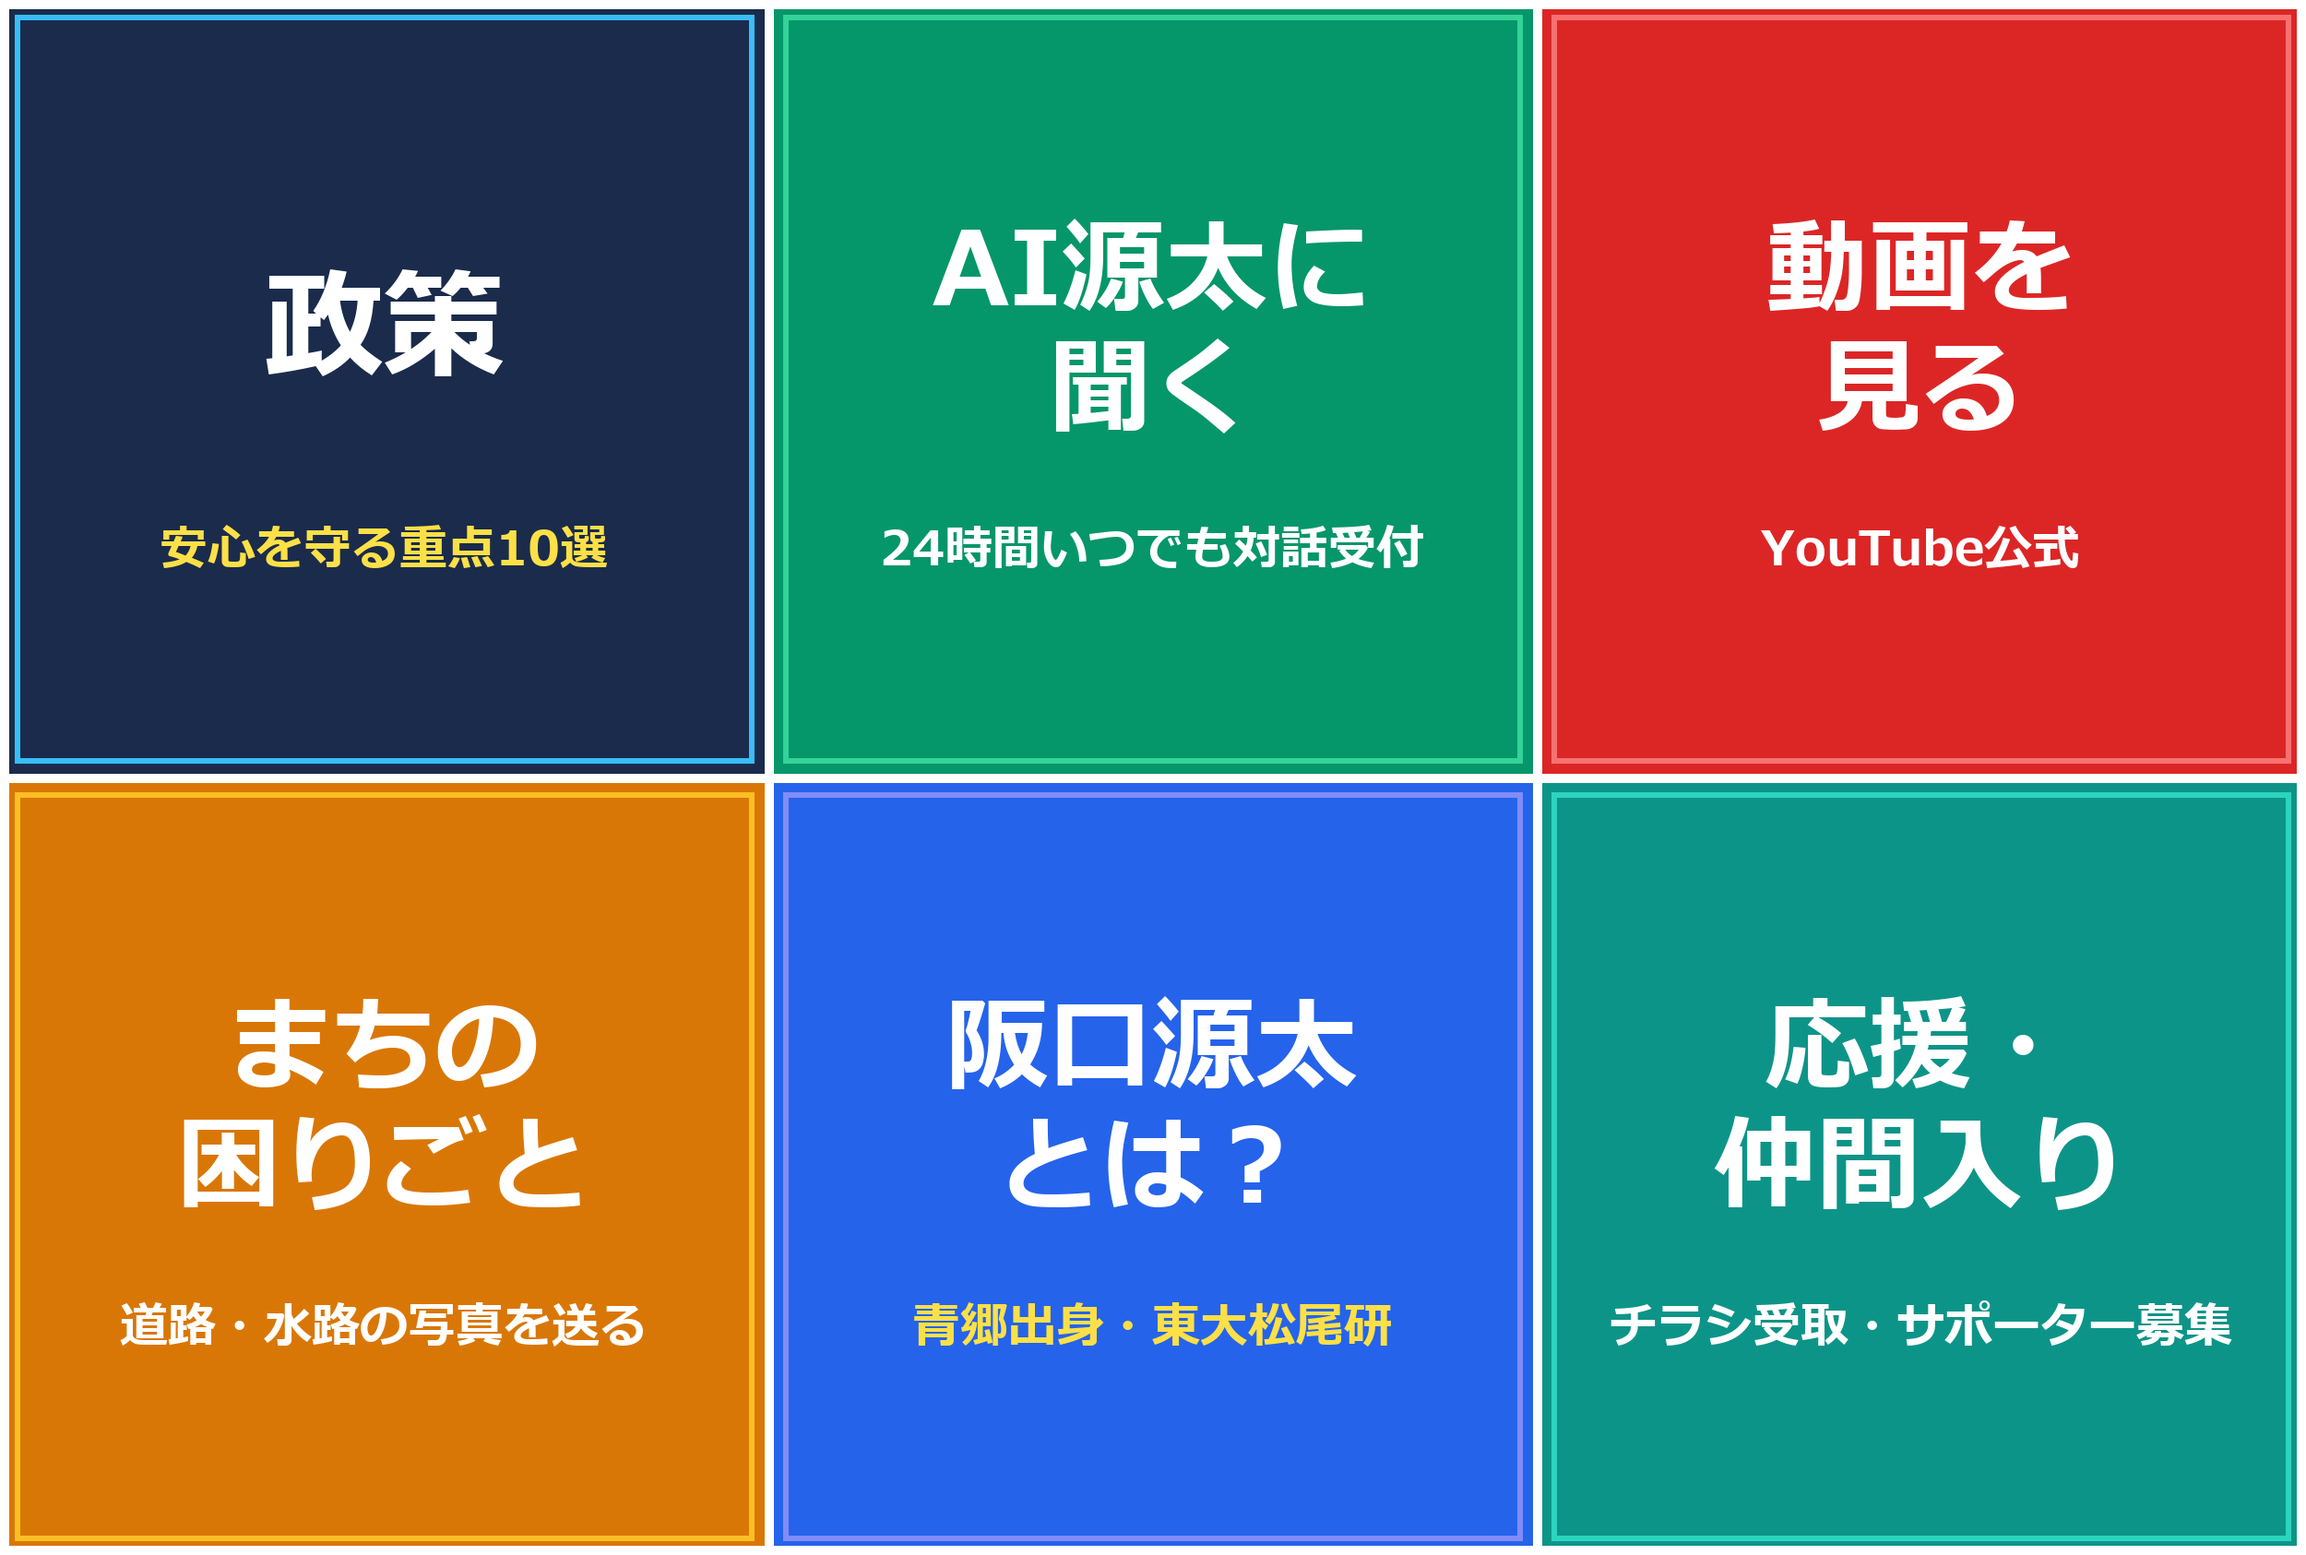
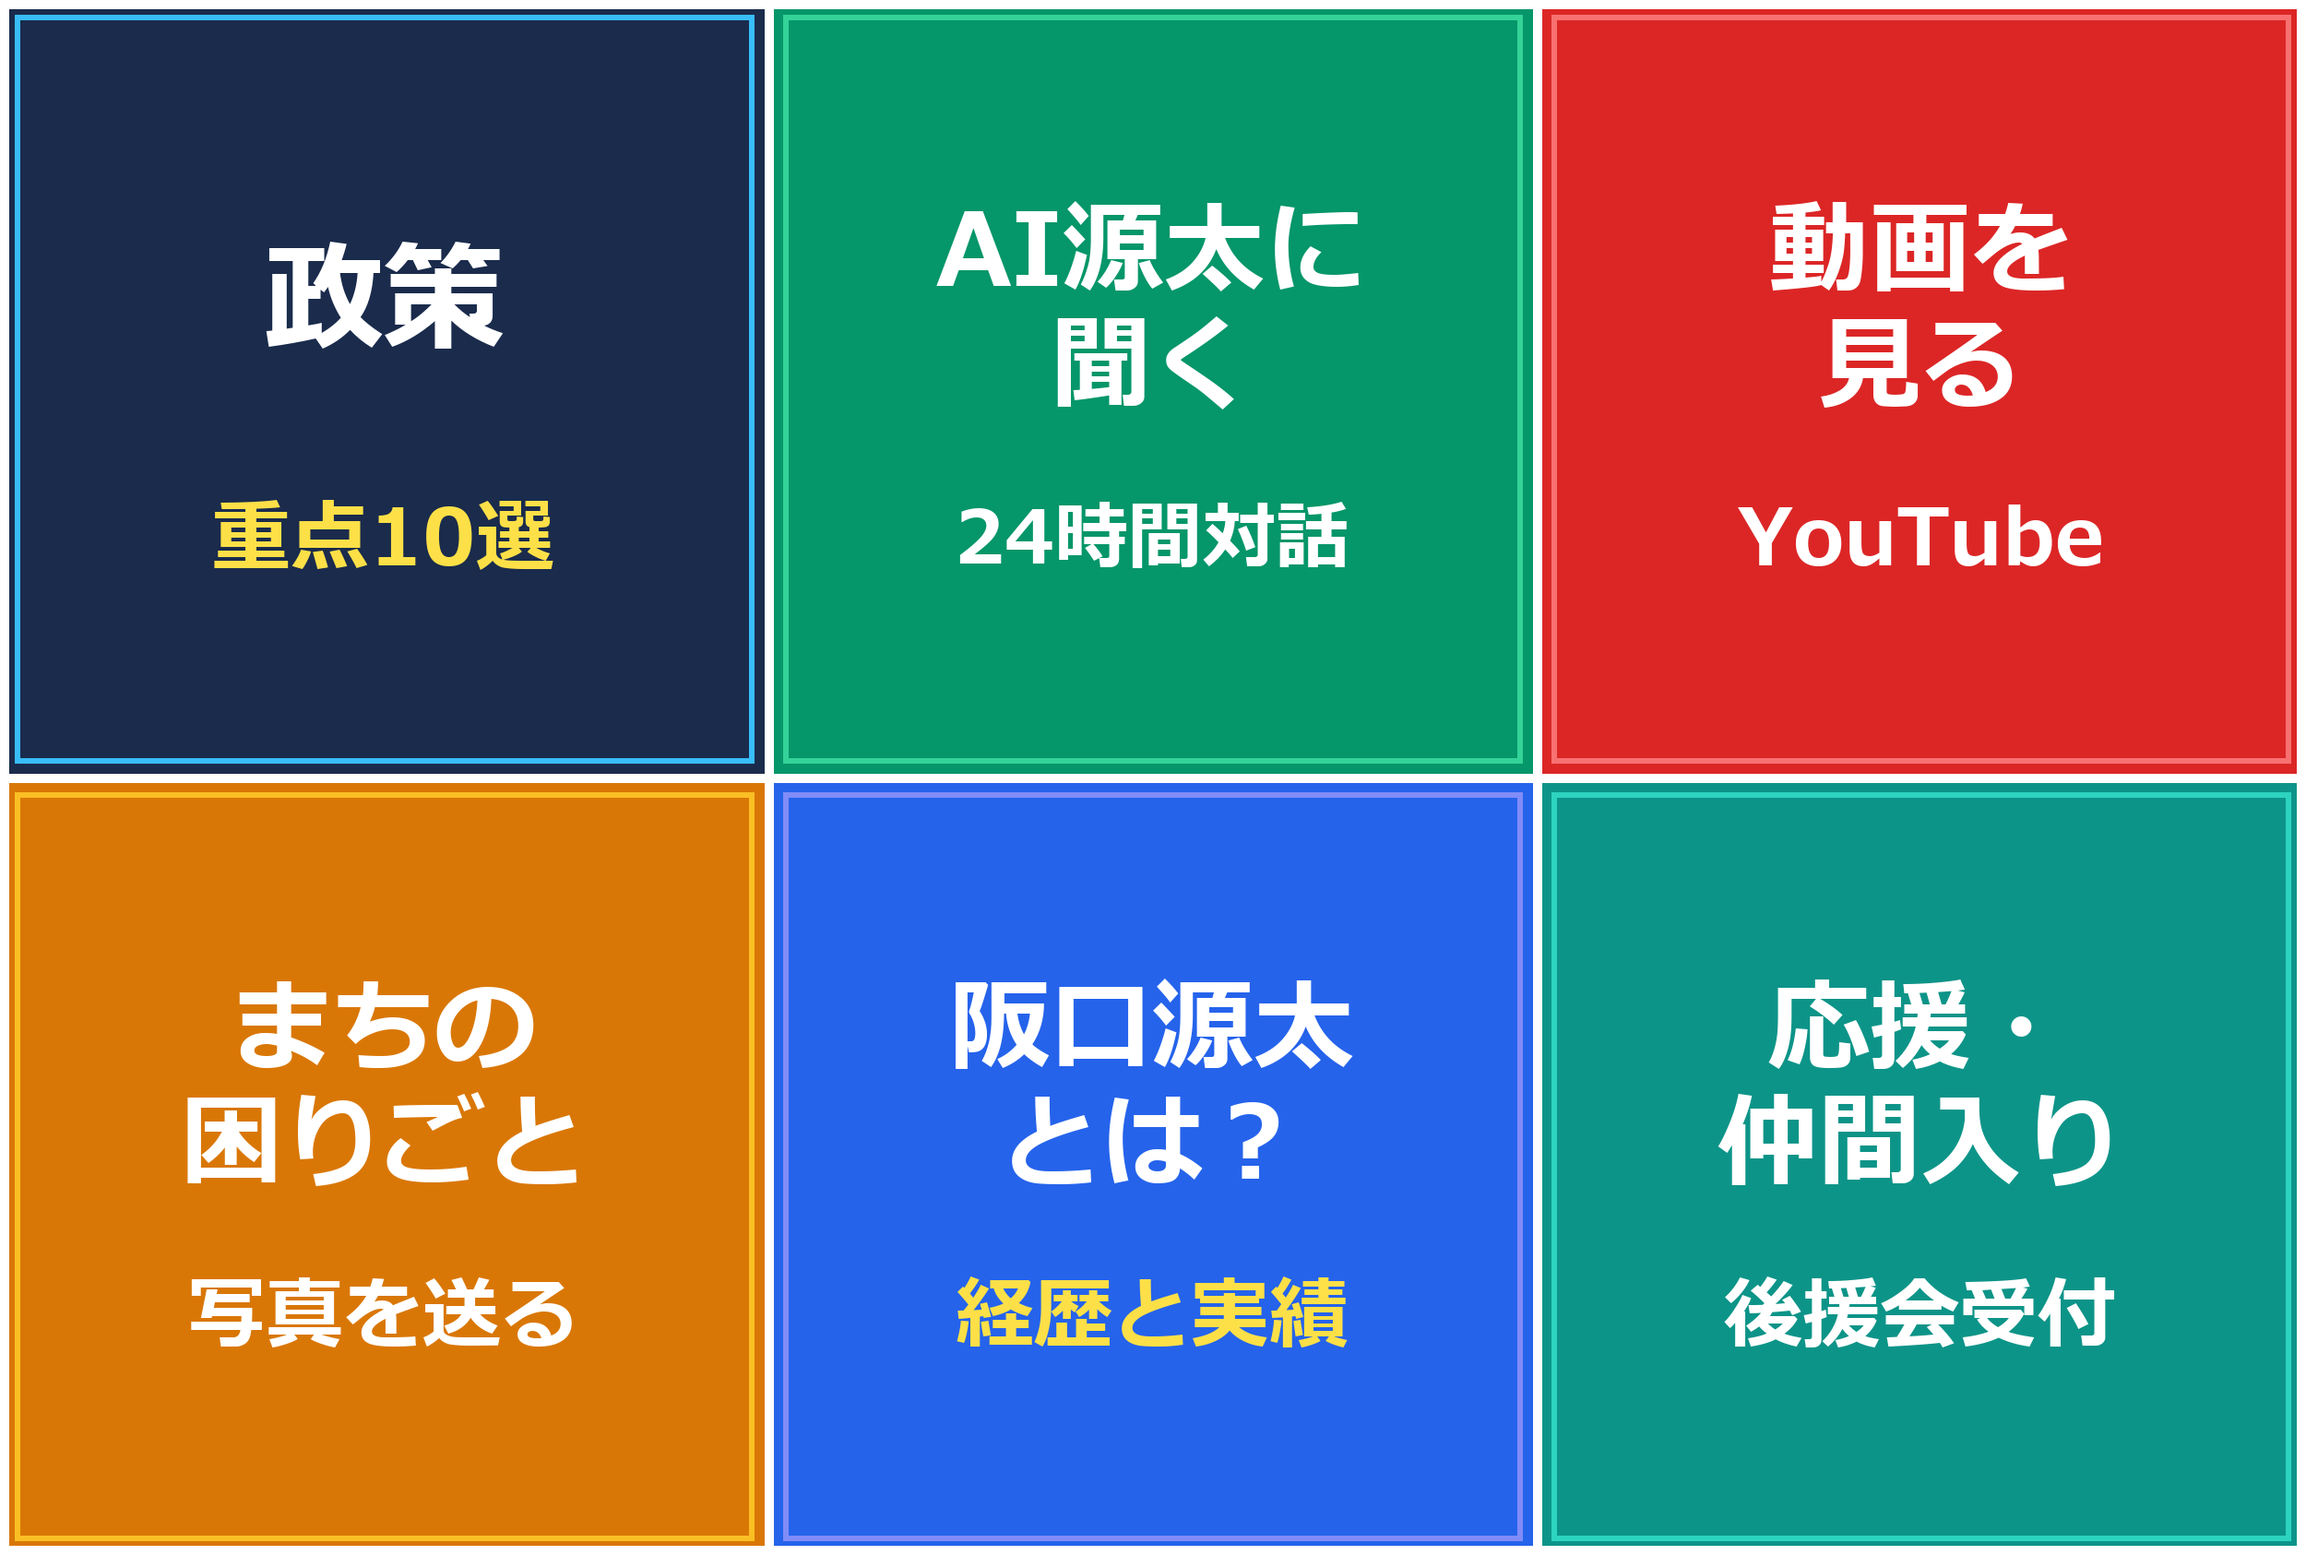
feat(richmenu): enlarge subtext font to 80-85pt for senior readability

diff --git a/app/bot/generate_richmenu_image.py b/app/bot/generate_richmenu_image.py
@@ -37,52 +37,52 @@ def generate_universal_richmenu(output_path="static/images/richmenu.png"):
     col_w = width // 3
     row_h = height // 2
 
-    # Tile definitions: 2-line structure for perfect horizontal padding
+    # Tile definitions: Shortened labels for maximum senior readability and font size
     tiles = [
         {
             "row": 0, "col": 0,
-            "lines": ["政策"],                 # 2文字特大1行
-            "sub": "安心を守る重点10選",
-            "sub_color": "#FDE047",           # 高視認性イエロー
+            "lines": ["政策"],                 # 130pt
+            "sub": "重点10選",
+            "sub_color": "#FDE047",           # 高視認性イエロー (約85pt)
             "bg": "#1A2B4C",                 # ディープネイビー
             "border": "#38BDF8"
         },
         {
             "row": 0, "col": 1,
-            "lines": ["AI源太に", "聞く"],     # 2行
-            "sub": "24時間いつでも対話受付",
+            "lines": ["AI源太に", "聞く"],     # 110pt
+            "sub": "24時間対話",              # 約80pt
             "sub_color": "#FFFFFF",
             "bg": "#059669",                 # エメラルドグリーン
             "border": "#34D399"
         },
         {
             "row": 0, "col": 2,
-            "lines": ["動画を", "見る"],       # 2行
-            "sub": "YouTube公式",            # （全5本）を削除
+            "lines": ["動画を", "見る"],       # 110pt
+            "sub": "YouTube",                # 白・約85pt
             "sub_color": "#FFFFFF",
             "bg": "#DC2626",                 # クリムゾンレッド
             "border": "#F87171"
         },
         {
             "row": 1, "col": 0,
-            "lines": ["まちの", "困りごと"],   # 2行
-            "sub": "道路・水路の写真を送る",
+            "lines": ["まちの", "困りごと"],   # 110pt
+            "sub": "写真を送る",              # 約85pt
             "sub_color": "#FFFFFF",
             "bg": "#D97706",                 # アンバーオレンジ
             "border": "#FBBF24"
         },
         {
             "row": 1, "col": 1,
-            "lines": ["阪口源太", "とは？"],   # 2行
-            "sub": "青郷出身・東大松尾研",
+            "lines": ["阪口源太", "とは？"],   # 110pt
+            "sub": "経歴と実績",              # 黄・約85pt
             "sub_color": "#FDE047",           # 高視認性イエロー
             "bg": "#2563EB",                 # ロイヤルブルー
             "border": "#818CF8"
         },
         {
             "row": 1, "col": 2,
-            "lines": ["応援・", "仲間入り"],   # 2行
-            "sub": "チラシ受取・サポーター募集",
+            "lines": ["応援・", "仲間入り"],   # 110pt
+            "sub": "後援会受付",              # 約85pt
             "sub_color": "#FFFFFF",
             "bg": "#0D9488",                 # ティール
             "border": "#2DD4BF"
@@ -105,8 +105,8 @@ def generate_universal_richmenu(output_path="static/images/richmenu.png"):
             print(f"[INFO] Using Font: {f}")
             break
 
-    # Maximum allowed width per line to guarantee ~60px side margins
-    max_text_width = col_w - 130 # approx 700px width limit
+    # Maximum allowed width per line to guarantee ~60px side margins (approx 700px width limit)
+    max_text_width = col_w - 130
 
     for tile in tiles:
         x0 = tile["col"] * col_w
@@ -126,15 +126,16 @@ def generate_universal_richmenu(output_path="static/images/richmenu.png"):
 
         lines = tile["lines"]
         if len(lines) == 1:
-            # Single line (e.g. 政策): Centered at 130pt
-            draw_auto_fit_text(draw, lines[0], selected_font_path, max_size=130, max_width=max_text_width, cx=cx, y=cy - 60, fill="#ffffff")
+            # Single line (政策): 130pt, vertically balanced with large subtext
+            draw_auto_fit_text(draw, lines[0], selected_font_path, max_size=130, max_width=max_text_width, cx=cx, y=cy - 90, fill="#ffffff")
         else:
-            # Two lines: Stacked with balanced line spacing
-            draw_auto_fit_text(draw, lines[0], selected_font_path, max_size=112, max_width=max_text_width, cx=cx, y=cy - 125, fill="#ffffff")
-            draw_auto_fit_text(draw, lines[1], selected_font_path, max_size=112, max_width=max_text_width, cx=cx, y=cy + 5, fill="#ffffff")
+            # Two lines: 110pt, stacked with clean line spacing
+            draw_auto_fit_text(draw, lines[0], selected_font_path, max_size=110, max_width=max_text_width, cx=cx, y=cy - 145, fill="#ffffff")
+            draw_auto_fit_text(draw, lines[1], selected_font_path, max_size=110, max_width=max_text_width, cx=cx, y=cy - 20, fill="#ffffff")
 
-        # Subtitle: Positioned cleanly below with safe margins
-        draw_auto_fit_text(draw, tile["sub"], selected_font_path, max_size=52, max_width=max_text_width, cx=cx, y=cy + 175, fill=tile["sub_color"])
+        # Subtitle: Target 80~85pt (Auto-fit within max_text_width)
+        sub_target_size = 80 if tile["sub"] == "24時間対話" else 85
+        draw_auto_fit_text(draw, tile["sub"], selected_font_path, max_size=sub_target_size, max_width=max_text_width, cx=cx, y=cy + 165, fill=tile["sub_color"])
 
     # High-contrast white grid separator lines (10px thickness)
     line_color = "#ffffff"

diff --git a/test_api_integration.py b/test_api_integration.py
@@ -1,0 +1,48 @@
+import requests
+import json
+import time
+
+def test_api():
+    print("Testing /api/issues endpoint...")
+    issue_data = {
+        "district": "内浦地区（音海・神野浦）",
+        "category": "道路・交通",
+        "description": "実機API結合テスト：街灯が切れて夜間暗くなっています。",
+        "location": "音海漁港付近の市道",
+        "reporter_name": "結合テスト太郎",
+        "contact": "090-1234-5678"
+    }
+    
+    resp_issue = requests.post("http://localhost:8000/api/issues", data=issue_data)
+    print(f"POST /api/issues -> Status: {resp_issue.status_code}, Response: {resp_issue.text}")
+
+    print("\nTesting /api/supporters endpoint...")
+    supporter_data = {
+        "name": "高浜 サポ代",
+        "contact": "genta2223@gmail.com",
+        "address": "高浜町宮崎",
+        "support_types": ["ポスター掲示OK", "知人への紹介・クチコミ", "事務所ボランティア"],
+        "message": "実機API結合テスト：全力で応援しています！"
+    }
+    
+    resp_supporter = requests.post(
+        "http://localhost:8000/api/supporters",
+        headers={"Content-Type": "application/json"},
+        data=json.dumps(supporter_data)
+    )
+    print(f"POST /api/supporters -> Status: {resp_supporter.status_code}, Response: {resp_supporter.text}")
+
+    print("\nWaiting 3 seconds for BackgroundTasks to complete...")
+    time.sleep(3)
+    
+    print("\nReading data/notifications.log:")
+    try:
+        with open("data/notifications.log", "r", encoding="utf-8") as f:
+            lines = f.readlines()
+            for l in lines[-15:]:
+                print(l.strip())
+    except Exception as e:
+        print(f"Could not read notifications.log: {e}")
+
+if __name__ == "__main__":
+    test_api()
